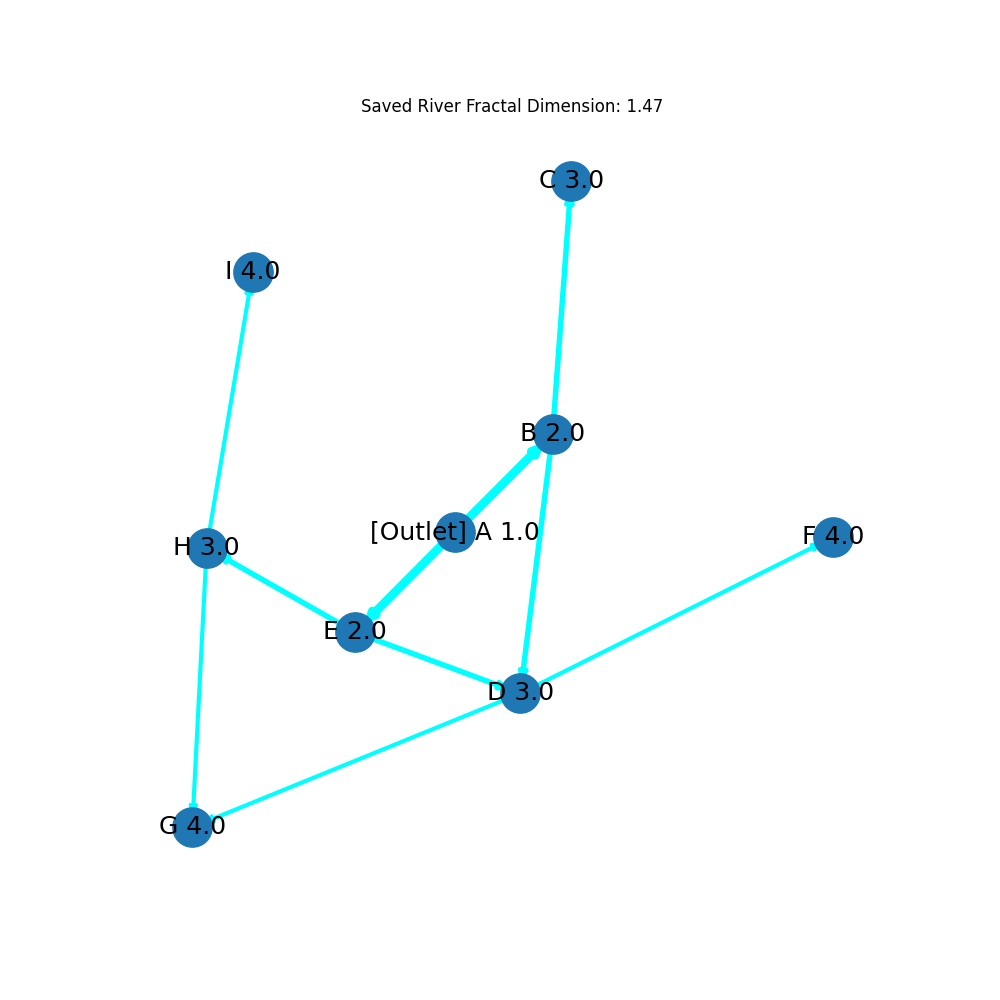
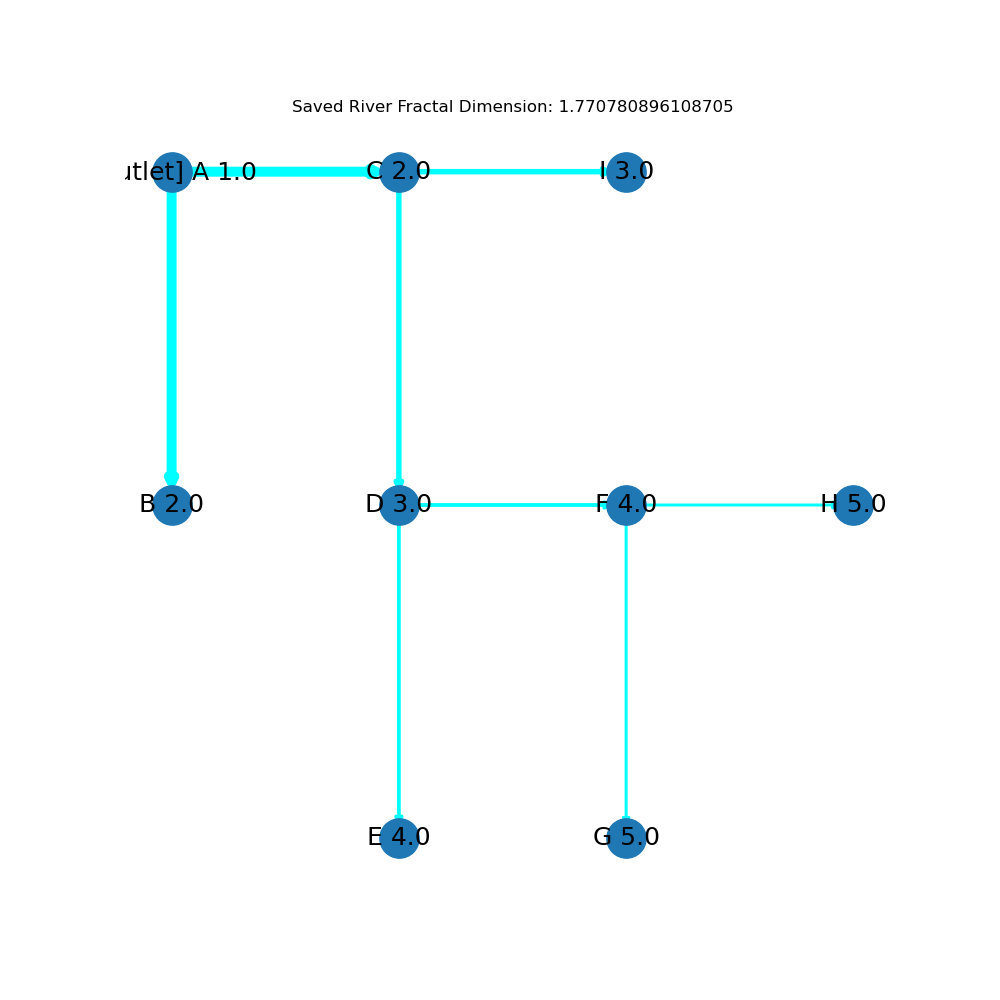
Plotting the graph

diff --git a/river.py b/river.py
@@ -27,7 +27,9 @@ class River:
         # initially represent the graph as a dictionary of nodes
         # to edges
         self.dict_graph = {}
-        self.G = nx.DiGraph()
+        self.G = nx.Graph()
+        # correspondence of node to location
+        self.nodeLocs = {}
 
         self.populateLatMatix()
         self.createGraph()
@@ -46,9 +48,9 @@ class River:
         def scalingFunction(self,x):
             """ Some scaling function """
             # return math.cosh(x)/np.exp(x)
-            # return np.sin(x)/x
-            return np.exp(-x)**2
+            # return np.exp(-x)**2
             # return 1-0.8*((np.exp(-0.005*x)-1)/(np.exp(-5.475)-1))
+            return np.sin(x)/x
         
         def _pdf(self,x):
             return x**(-self.tau)*self.scalingFunction((x/(self.latLength**self.phi)))
@@ -79,10 +81,12 @@ class River:
             if self.outlet == (node[0], node[1]):
                 nodeName = "[Outlet] " + nodeName
             
+            self.nodeLocs[nodeName] = (node[0],self.latLength-node[1])
+
             for edge in self.dict_graph[node]:
                 otherNode = node_to_name[(edge[0],edge[1])] + " " + str(self.areaMatrix[edge[0]][edge[1]])
                 self.G.add_edge(nodeName,otherNode,weight=edge[2])
-
+        
     def populateLatMatix(self):
         def dfs(coords, visited, edges,last_s):
             i, j = coords[0], coords[1]
@@ -103,8 +107,7 @@ class River:
             
             if(sample>p):
                 return None
-            # check if we can go in the four directions and act accordingly
-            # i will be columns and j will be rows
+            # check if we can go in the three directions and act accordingly
             if (j+1)<self.latLength and not ((((i,j),(i,j+1)) in edges) or (((i,j+1),(i,j)) in edges)):
                 edges.add(((i,j),(i,j+1)))
                 edges.add(((i,j+1),(i,j)))
@@ -123,11 +126,11 @@ class River:
                 self.dict_graph[(i,j)].append((i,j-1,p))
                 
                 dfs((i,j-1), visited, edges,s)
-            if (i-1)>0 and not ((((i,j),(i-1,j)) in edges) or (((i-1,j),(i,j)) in edges)):
+            """if (i-1)>0 and not ((((i,j),(i-1,j)) in edges) or (((i-1,j),(i,j)) in edges)):
                 edges.add(((i-1,j),(i,j)))
                 edges.add(((i,j),(i-1,j)))
                 self.dict_graph[(i,j)].append((i-1,j,p))
-                dfs((i-1,j), visited, edges,s)
+                dfs((i-1,j), visited, edges,s)"""
             return None
         # the edges that are already existing 
         edges = set()
@@ -170,13 +173,14 @@ class River:
         sumWeights = 0
         totalWeights = 0
         uniqueWeights = set()
+        
         for node in self.dict_graph:
-            totalWeights+=len(self.dict_graph[node])
+            totalWeights+=len(self.dict_graph[node])    
             for edge in self.dict_graph[node]:
                 sumWeights+=edge[2]
                 uniqueWeights.add(edge[2])
 
-        pos = nx.spring_layout(self.G)
+        pos = nx.spring_layout(self.G,pos=self.nodeLocs,fixed=self.nodeLocs.keys())
         # nodes
         nx.draw_networkx_nodes(self.G,pos,node_size=800)
         nx.draw_networkx_labels(self.G,pos,font_size=18)
@@ -193,6 +197,8 @@ class River:
 
 if __name__=="__main__":
    
+  # riv = River(1.47,latLength=10, outlet=(2,2))
    riv = River(1.47,latLength=10)
    riv.pprint()
    riv.plotGraph()
+   

diff --git a/boxcounting.py b/boxcounting.py
@@ -16,11 +16,8 @@ def rgb2gray(rgb):
     (thresh, BnW_image) = cv2.threshold(gray_image, 125, 255, cv2.THRESH_BINARY)
     return BnW_image
 
-def imageToFracDim(fpath:str):
+def imageToFracDim(fpath:str, saveImg:bool = False):
     image=rgb2gray(pl.imread(fpath))
-    print(image.shape)
-    plt.imshow(image)
-    plt.savefig("grayed.jpg")
     # finding all the non-zero pixels
     pixels=[]
     for i in range(image.shape[0]):
@@ -50,13 +47,14 @@ def imageToFracDim(fpath:str):
     
     # linear fit, polynomial of degree 1
     coeffs=np.polyfit(np.log(scales), np.log(Ns), 1)
-    
-    pl.plot(np.log(scales),np.log(Ns), 'o', mfc='none')
-    pl.plot(np.log(scales), np.polyval(coeffs,np.log(scales)))
-    pl.xlabel('log $\epsilon$')
-    pl.ylabel('log N')
-    pl.savefig('fractal_dimension.pdf')
+    if saveImg:
+        pl.plot(np.log(scales),np.log(Ns), 'o', mfc='none')
+        pl.plot(np.log(scales), np.polyval(coeffs,np.log(scales)))
+        pl.xlabel('log $\epsilon$')
+        pl.ylabel('log N')
+        pl.savefig('fractal_dimension.pdf')
+        np.savetxt("scaling.txt", list(zip(scales,Ns)))
     
     print ("The Hausdorff dimension is", -coeffs[0]) #the fractal dimension is the OPPOSITE of the fitting coefficient
-    np.savetxt("scaling.txt", list(zip(scales,Ns)))
+        
     return -coeffs[0]

diff --git a/main.py b/main.py
@@ -3,11 +3,12 @@ from boxcounting import imageToFracDim
 import numpy as np
 
 def main():
-    imagePath = "egypt_3-0.jpg"
+    imagePath = "satellite-images/egypt_3-0.jpg"
     fracDim = imageToFracDim(imagePath)
     print(fracDim)
     riv = River(fracDim, latLength=10)
-    print(np.matrix(riv.areaMatrix))
+    riv.pprint()
+    riv.plotGraph(save=True)
 
 if __name__=="__main__":
     main()
